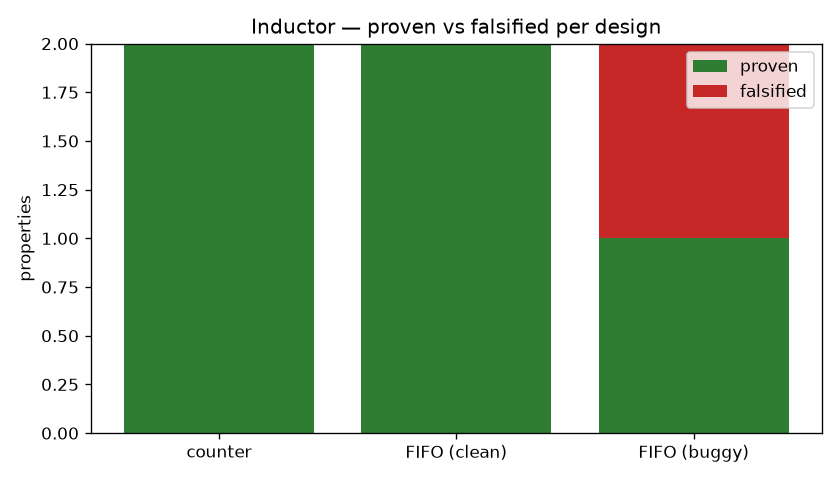
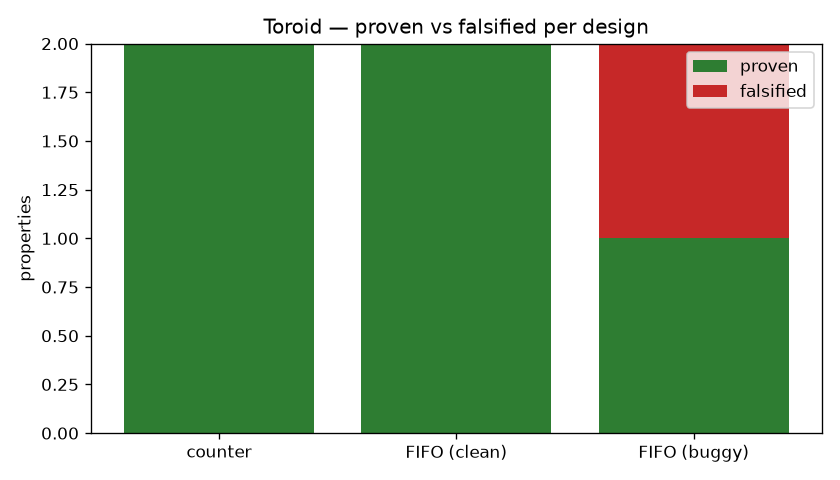
Polish: fix report honesty, reset polarity, and stale post-rename claims
Found by an adversarial review pass; each item verified by reading and running.

- report.py: the footer asserted "Every verdict above is tied to a solver run"
  unconditionally — false for ERROR (never reached a solver; it failed the
  compile gate) and INCONCLUSIVE (the solver was cut off without deciding).
  Now scoped to the verdicts that earn it, with an explicit disclaimer when
  either appears. ERROR rows also silently dropped the compile-gate diagnostics
  discharge attaches to them; add an Errors section that shows them.
- yosys.py: _is_active_low treated any reset ending in "n" (rst_in, reset_in)
  as active-low — inverting the reset assumption in the rendered wrapper and in
  the "authoritative" interface the LLM is grounded on. It also missed rst_b.
  Suffix-anchored now, with a parametrized regression test both directions.
- docs/img/bugcatch.png: the README's only image still carried the pre-rename
  "Inductor" title. Regenerated (data identical). Add `make chart`, since the
  generator writes to a gitignored dir and nothing installed it — which is why
  it drifted in the first place.
- Drop the dead --engine flag (parsed, never read) and the vcdvcd runtime
  dependency (never imported; the .yw/VCD reader is still a stub).
- Document the real --backend tradeoff: sby honors assumes and catches vacuity
  but reports a trace path with no inline cycle table; yosys-sat narrates but
  ignores assumes.
[…]

Changed region(s): [[0.3095, 0.0312, 0.8048, 0.0938]]

diff --git a/src/toroid/pipeline/report.py b/src/toroid/pipeline/report.py
@@ -54,10 +54,33 @@ def render_report(interface: ModuleInterface, results: Sequence[PropertyResult])
                 lines.append(r.detail)
                 lines.append("```")
 
+    # A compile-gate failure carries its diagnostics in `detail`; surface them, or the
+    # user gets a bare ERROR row with no way to see what went wrong.
+    errored = [r for r in results if r.verdict is Verdict.ERROR and r.detail]
+    if errored:
+        lines.append("")
+        lines.append("## Errors")
+        for r in errored:
+            lines.append("")
+            lines.append(f"### `{r.pid}` — {r.summary}")
+            lines.append("")
+            lines.append("```")
+            lines.append(r.detail)
+            lines.append("```")
+
     lines.append("")
     lines.append(
-        "_Every verdict above is tied to a solver run. "
-        "BOUNDED-PASS means no counterexample within the depth bound — not an "
-        "unbounded proof._"
+        "_Every PROVEN / BOUNDED-PASS / FALSIFIED / VACUOUS verdict above is tied to a "
+        "real solver run — never to a model's say-so. BOUNDED-PASS means no "
+        "counterexample within the depth bound, not an unbounded proof._"
     )
+    # Don't let the line above overclaim: these two verdicts never came from a solver.
+    if any(r.verdict in (Verdict.ERROR, Verdict.INCONCLUSIVE) for r in results):
+        lines.append("")
+        lines.append(
+            "_ERROR and INCONCLUSIVE are **not** solver verdicts: ERROR means the "
+            "property never reached a solver (it failed the compile gate), and "
+            "INCONCLUSIVE means the solver was cut off (timeout / resource limit) "
+            "without deciding._"
+        )
     return "\n".join(lines) + "\n"

diff --git a/tests/unit/test_report.py b/tests/unit/test_report.py
@@ -46,3 +46,26 @@ def test_falsified_property_gets_a_counterexample_section() -> None:
 def test_report_states_the_honesty_caveat() -> None:
     md = render_report(_iface(), [])
     assert "not an" in md and "unbounded proof" in md
+
+
+def test_error_result_shows_its_compile_diagnostics() -> None:
+    # discharge attaches the compile-gate errors to ERROR results; a bare ERROR row
+    # with no explanation is useless to the user.
+    results = [
+        PropertyResult("PE", Verdict.ERROR, "bad property", detail="syntax error near 'foo'")
+    ]
+    md = render_report(_iface(), results)
+    assert "## Errors" in md
+    assert "syntax error near 'foo'" in md
+
+
+def test_footer_does_not_claim_a_solver_run_for_error_or_inconclusive() -> None:
+    # THE honesty rule, applied to the report's own prose: ERROR never reached a solver
+    # and INCONCLUSIVE never decided, so the blanket "tied to a solver run" must not
+    # stand unqualified when either is present.
+    for verdict in (Verdict.ERROR, Verdict.INCONCLUSIVE):
+        md = render_report(_iface(), [PropertyResult("PX", verdict, "x")])
+        assert "not** solver verdicts" in md, verdict
+    # ...and with only real solver verdicts, the caveat is not added as noise.
+    clean = render_report(_iface(), [PropertyResult("P1", Verdict.PROVEN, "ok")])
+    assert "not** solver verdicts" not in clean

diff --git a/tests/unit/test_yosys_parse.py b/tests/unit/test_yosys_parse.py
@@ -64,3 +64,35 @@ def test_active_low_reset_name() -> None:
 def test_missing_top_raises() -> None:
     with pytest.raises(KeyError, match="nope"):
         parse_write_json(COUNTER_JSON, "nope")
+
+
+@pytest.mark.parametrize(
+    ("reset_name", "expect_active_high"),
+    [
+        ("rst_n", False),      # conventional active-low spellings
+        ("reset_n", False),
+        ("rstn", False),
+        ("resetn", False),
+        ("rst_b", False),
+        ("rst", True),         # plain active-high
+        ("reset", True),
+        ("rst_in", True),      # merely ENDS in "n" — active-HIGH, must not over-fire
+        ("reset_in", True),
+    ],
+)
+def test_reset_polarity_detection(reset_name: str, expect_active_high: bool) -> None:
+    # Getting this wrong inverts the reset assumption in the rendered wrapper and
+    # hands the LLM a wrong "authoritative" interface — so both directions matter.
+    data = {
+        "modules": {
+            "m": {
+                "ports": {
+                    "clk": {"direction": "input", "bits": [2]},
+                    reset_name: {"direction": "input", "bits": [3]},
+                }
+            }
+        }
+    }
+    iface = parse_write_json(data, "m")
+    assert iface.reset == reset_name
+    assert iface.reset_active_high is expect_active_high

diff --git a/src/toroid/cli.py b/src/toroid/cli.py
@@ -325,11 +325,14 @@ def build_parser() -> argparse.ArgumentParser:
     p_verify.add_argument(
         "--no-refine", action="store_true", help="skip the LLM counterexample-refinement loop"
     )
-    p_verify.add_argument("--engine", default="bitwuzla", help="solver engine (sby backend)")
     p_verify.add_argument(
         "--backend", choices=("auto", "sby", "yosys-sat"), default="auto",
-        help="discharge backend: 'sby' (SymbiYosys+Bitwuzla, needs OSS CAD Suite) or "
-        "'yosys-sat' (built-in minisat, Yosys-only). auto picks sby if available.",
+        help="discharge backend. 'sby' (SymbiYosys+Bitwuzla, needs the OSS CAD Suite) "
+        "honors assume cells and discharges covers, so it can prove assume-dependent "
+        "properties and catch VACUOUS passes — but its counterexamples are reported as a "
+        "trace-file path, without the inline cycle table. 'yosys-sat' (built-in minisat, "
+        "Yosys-only) ignores assume cells (ADR-0004) but narrates counterexamples "
+        "cycle-by-cycle. auto picks sby when it is on PATH, else yosys-sat.",
     )
     p_verify.add_argument("--no-llm", action="store_true", help="use a hand-written property file")
     p_verify.add_argument("--props", help="property file (JSON); default: <top>.props.json")

diff --git a/src/toroid/adapters/yosys.py b/src/toroid/adapters/yosys.py
@@ -53,7 +53,8 @@ class YosysAdapter(Protocol):
 
 _CLOCK_HINTS = ("clk", "clock", "clkin")
 _RESET_HINTS = ("rst", "reset")
-_ACTIVE_LOW_HINTS = ("_n", "rstn", "resetn", "_b")
+#: Conventional active-low reset spellings, matched as a SUFFIX (see _is_active_low).
+_ACTIVE_LOW_SUFFIXES = ("_n", "_b", "rstn", "resetn")
 
 
 def _looks_like_clock(name: str, direction: Direction, width: int) -> bool:
@@ -67,8 +68,15 @@ def _looks_like_reset(name: str, direction: Direction, width: int) -> bool:
 
 
 def _is_active_low(name: str) -> bool:
-    n = name.lower()
-    return n.endswith("_n") or n.endswith("n") and any(h in n for h in _RESET_HINTS)
+    """True for the conventional active-low reset spellings: `rst_n`, `reset_n`,
+    `rst_b`, `rstn`, `resetn`.
+
+    Suffix-anchored on purpose. A name that merely *ends in* "n" — `rst_in`,
+    `reset_in` — is an active-HIGH reset; treating it as active-low inverts the reset
+    assumption in the rendered wrapper and hands the LLM a wrong "authoritative"
+    interface, so this must not over-fire.
+    """
+    return name.lower().endswith(_ACTIVE_LOW_SUFFIXES)
 
 
 def parse_write_json(data: dict[str, Any], top: str) -> ModuleInterface:

diff --git a/src/toroid/domain/properties.py b/src/toroid/domain/properties.py
@@ -38,7 +38,12 @@ class Property:
     summary: str  # one-line human description
     expr: str  # the Yosys-subset boolean expression
     rationale: str = ""  # why it follows from the spec/interface (provenance)
-    clocked: bool = True  # rendered inside always @(posedge clk)
+    # NOTE: currently advisory only. `render/checker.py` emits every property as an
+    # immediate assertion inside the single `always @(posedge clk)` block — the
+    # universally supported open-frontend idiom (§4.1) — so `clocked=False` is *not*
+    # honored today. Kept because the property set round-trips through JSON/the LLM
+    # schema; making it meaningful means teaching the renderer an unclocked form.
+    clocked: bool = True
     origin: Origin = "llm"
 
 

diff --git a/DESIGN.md b/DESIGN.md
@@ -2,7 +2,7 @@
 
 > An agent that reads a spec and RTL, synthesizes formal properties, runs a model checker, and iterates on counterexamples — automating the hardware-verification engineer's loop. The LLM proposes; the solver disposes. **Hallucination cannot pass verification.**
 
-**Status:** Design draft · **Language:** Python 3.11+ · **Stack target:** CLI + library, Linux / WSL2 (open formal toolchain) · **LLM:** Claude Opus 4.8
+**Status:** Implemented — M0–M5 and hardening H1–H4 shipped; see [ROADMAP.md](ROADMAP.md) for the acceptance tests · **Language:** Python 3.11+ · **Stack target:** CLI + library; the yosys-sat path runs anywhere (incl. Windows) via `yowasp-yosys`, the `sby` backend targets Linux/WSL2 · **LLM:** Claude Opus 4.8
 
 
 > **Legal / licensing — clean for an open portfolio project (verified 2026-06-28).** Yosys and SymbiYosys are **ISC**; Bitwuzla is **MIT**; ABC is permissive (MIT-style). All ship together in the **OSS CAD Suite**. Yices is **GPLv3** — kept as an optional engine, never a default or a bundled dependency, so Toroid's own license stays unencumbered. Full SystemVerilog Assertion (SVA) parsing requires the commercial **Verific** frontend (Tabby CAD Suite); Toroid v1 deliberately targets the **free** open frontend and the assertion subset it supports (see §4). No vendor RTL or IP is redistributed — only original sample designs.
@@ -75,7 +75,7 @@ The demo that lands: a FIFO with an injected off-by-one in its full/empty logic.
 | LLM | **Anthropic Python SDK**, `claude-opus-4-8` | Adaptive thinking (`thinking={"type":"adaptive"}`), `effort:"high"`. Property synthesis and CEX classification use **structured outputs** (`messages.parse()` + Pydantic) so output is schema-valid by construction. (Verified against the Anthropic API docs, 2026-06-28.) |
 | Trace/VCD reader (display) | **`vcdvcd`** | Lightweight, maintained VCD reader for rendering human-facing waveforms; primary trace parse is `.yw`. |
 | Charts (benchmarks) | **matplotlib** | Proof-depth-vs-time and bug-catch-rate plots for the demo. |
-| CI | **GitHub Actions** + `YosysHQ/setup-oss-cad-suite@v3` | One-line toolchain in CI; Linux runner. |
+| CI | **GitHub Actions** + `YosysHQ/setup-oss-cad-suite@v4` | One-line toolchain in CI; Linux runner. |
 | Test | **pytest** | Domain layer unit-tested with the toolchain mocked; integration tests run real `sby` on sample designs. |
 
 **Platform note (assumption, not a question):** the open formal stack is Linux-native and most reliable there. The author's machine is Windows 11, so the primary dev environment is **WSL2 (Ubuntu) + OSS CAD Suite**, and CI runs on Linux. The Python package itself is OS-agnostic — it shells out to the toolchain — but the toolchain is assumed to be on a Linux-like PATH. Native-Windows OSS CAD Suite builds exist as a fallback but are not the supported path.
@@ -376,7 +376,7 @@ Top-down, each independently runnable; counts are budgets, not promises.
 - **SymbiYosys docs** — flows, `.sby` reference, install. https://symbiyosys.readthedocs.io/ *(verified 2026-06-28; free OSS frontend supports immediate assertions only; full SVA needs Tabby CAD / Verific)*
 - **Yosys docs** — `read_verilog -formal`, formal system functions (`$past`/`$anyconst`/…), `write_json` port/width export. https://yosyshq.readthedocs.io/projects/yosys/ *(verified 2026-06-28)*
 - **OSS CAD Suite** — bundled Yosys + sby + Bitwuzla + ABC. https://github.com/YosysHQ/oss-cad-suite-build *(verified 2026-06-28)*
-- **setup-oss-cad-suite** — CI action (`@v3`). https://github.com/YosysHQ/setup-oss-cad-suite *(verified 2026-06-28)*
+- **setup-oss-cad-suite** — CI action (`@v4`). https://github.com/YosysHQ/setup-oss-cad-suite *(verified 2026-06-28)*
 - **Bitwuzla** (MIT) — bit-vector/array SMT solver, Boolector successor, SMT-COMP winner. https://bitwuzla.github.io/ *(verified 2026-06-28)*
 - **Yosys `smtbmc.py` / `ywio`** — witness `.yw` read/write classes for trace parsing. https://github.com/YosysHQ/yosys/blob/main/backends/smt2/smtbmc.py *(verified 2026-06-28)*
 - **Anthropic API docs** — `claude-opus-4-8`, adaptive thinking, structured outputs via `messages.parse()`. *(consulted 2026-06-28)*

diff --git a/README.md b/README.md
@@ -68,9 +68,14 @@ step |  rst  wr_en  rd_en  full  empty  count
   19 |   0     0      0      0     1      0    ← counterexample ends
 ```
 
-On the yosys-sat backend the counterexample lands at the unconstrained initial state,
-because this backend can't apply the reset assumption (ADR-0004); the reset-driven
-temporal overflow story is the sby-backend path (roadmap H2).
+On the lightweight yosys-sat backend the counterexample lands at the unconstrained
+initial state, because that backend ignores `assume` cells (ADR-0004). The **`sby` +
+Bitwuzla backend lifts that limit and is live and green in CI** (`--backend sby`): it
+honors assumptions and discharges covers, so assume-dependent properties prove and a
+pass whose witness is unreachable is caught as `VACUOUS` — see
+[`designs/counter_assume.props.json`](designs/counter_assume.props.json) and
+[`designs/counter_vacuous.props.json`](designs/counter_vacuous.props.json), which the
+`formal-sby` CI job runs on every push.
 
 **3 — It proves (or disproves) RTL-to-RTL equivalence.** A miter with shared symbolic
 inputs — the hardware sibling of *Congruent*:
@@ -91,6 +96,31 @@ The solver runs (2, 3, and the bug-catch chart) need nothing but `pip install` (
 via `yowasp-yosys`) and run on Windows; the live-LLM synthesis in (1) needs an
 `ANTHROPIC_API_KEY`, and its output is recorded as a fixture so CI replays the AI path
 with no key.
+
+---
+
+## What it can't do
+
+The honest limits, so the claims above aren't read wider than they are:
+
+- **No full concurrent SVA.** Properties use the open-Yosys subset (immediate assertions
+  + `$past`/`$rose`/`$stable`/`$anyseq`/`$anyconst`). Sequences and the full temporal
+  layer need the commercial Verific frontend — a deliberate non-goal (ADR-0002).
+- **Small, single-clock modules.** Counter/FIFO/arbiter scale (≲500 lines). No multi-clock
+  or CDC, no full-chip, no industrial IP.
+- **Safety properties only** — no liveness or fairness.
+- **The two backends trade off, and neither is strictly better.** `yosys-sat` narrates
+  counterexamples cycle-by-cycle but **ignores `assume` cells** (ADR-0004). `sby` honors
+  assumptions and catches vacuity, but reports a counterexample as a trace-file path
+  **without** the inline cycle table (the `.yw`/VCD reader is still a stub).
+- **It never edits your RTL.** An `rtl_bug` verdict is terminal: Toroid diagnoses and
+  pinpoints, it does not rewrite the design under test.
+- **LLM synthesis is non-deterministic.** A live re-run may propose a different (still
+  gated) property set; the committed fixture is the pinned, reproducible artifact.
+- **The benchmarks are illustrative, not a benchmark claim.** Three tiny designs, no
+  confidence intervals and no named external baseline — they show the flow works and the
+  bug is caught, nothing more.
+- No floating-point, analog, gate-level, or timing verification.
 
 ---
 

diff --git a/ROADMAP.md b/ROADMAP.md
@@ -12,10 +12,11 @@ The milestone checklist.
 > DESIGN's first milestone needs the OSS CAD Suite toolchain, which is Linux-native
 > — so M0 here is everything that runs *without* it.
 >
-> **Toolchain note:** M1 onward require Yosys + SymbiYosys + Bitwuzla on PATH (OSS
-> CAD Suite; WSL2 on Windows). Keep toolchain-dependent (`sby`-shelling) tests gated
-> so they **skip** cleanly when the toolchain is absent — unit tests stay green
-> everywhere.
+> **Toolchain note:** M1 onward need **a Yosys** — which `pip install -e ".[dev]"`
+> provides via `yowasp-yosys` (WASM), so the whole yosys-sat path runs anywhere,
+> Windows included, with no OSS CAD Suite. Only the **`sby` backend** needs the full
+> OSS CAD Suite (SymbiYosys + Bitwuzla) on PATH. Keep `sby`-shelling tests gated so
+> they **skip** cleanly when it's absent — unit tests stay green everywhere.
 
 ---
 
@@ -40,8 +41,7 @@ The milestone checklist.
   FALSIFIED with a `.vcd`. ✅ **Confirmed live** (yosys-sat via yowasp, Windows):
   `pytest -m integration` green; CLI reports P1/P2 PROVEN and the bad property
   FALSIFIED with a real waveform.
-  _Caveat: the `sby` + Bitwuzla backend is code-complete and unit-tested but its
-  live run still awaits an OSS CAD Suite install (its integration tests skip)._
+  _(The `sby` + Bitwuzla backend is now live and green in CI too — see H2.)_
 
 ## Phase 2 — Property synthesis (the credibility milestone)
 
